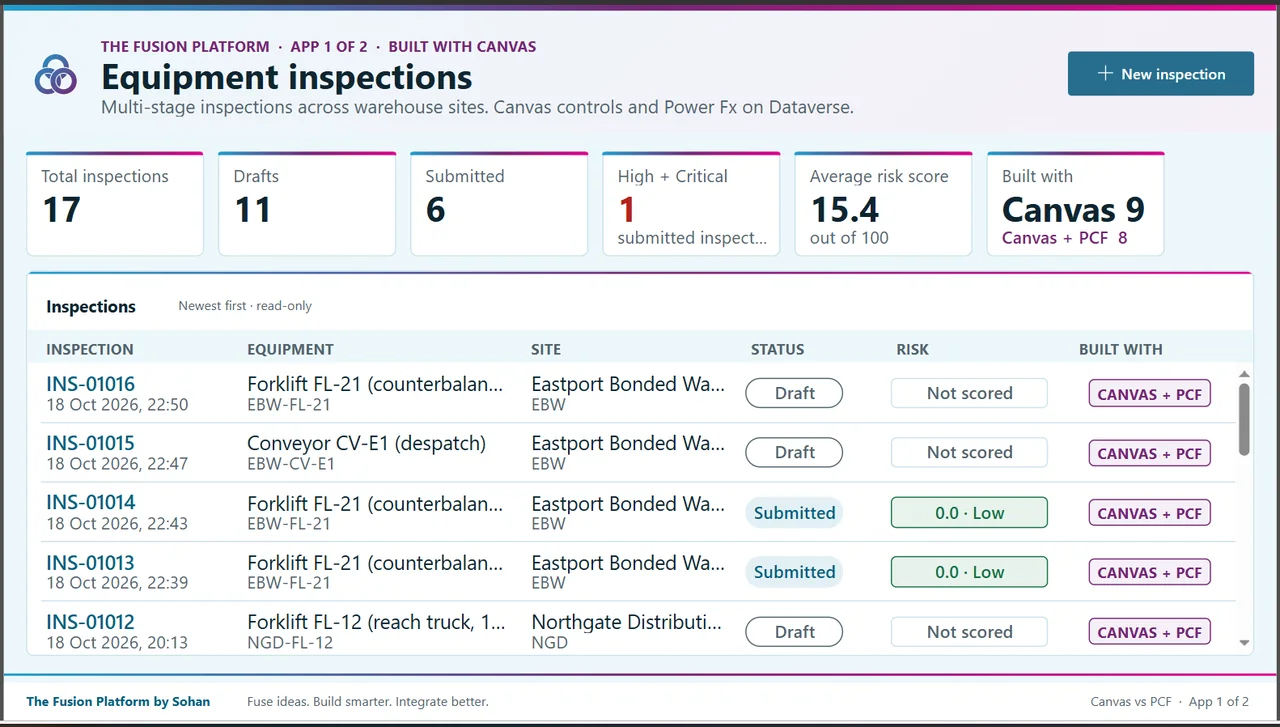
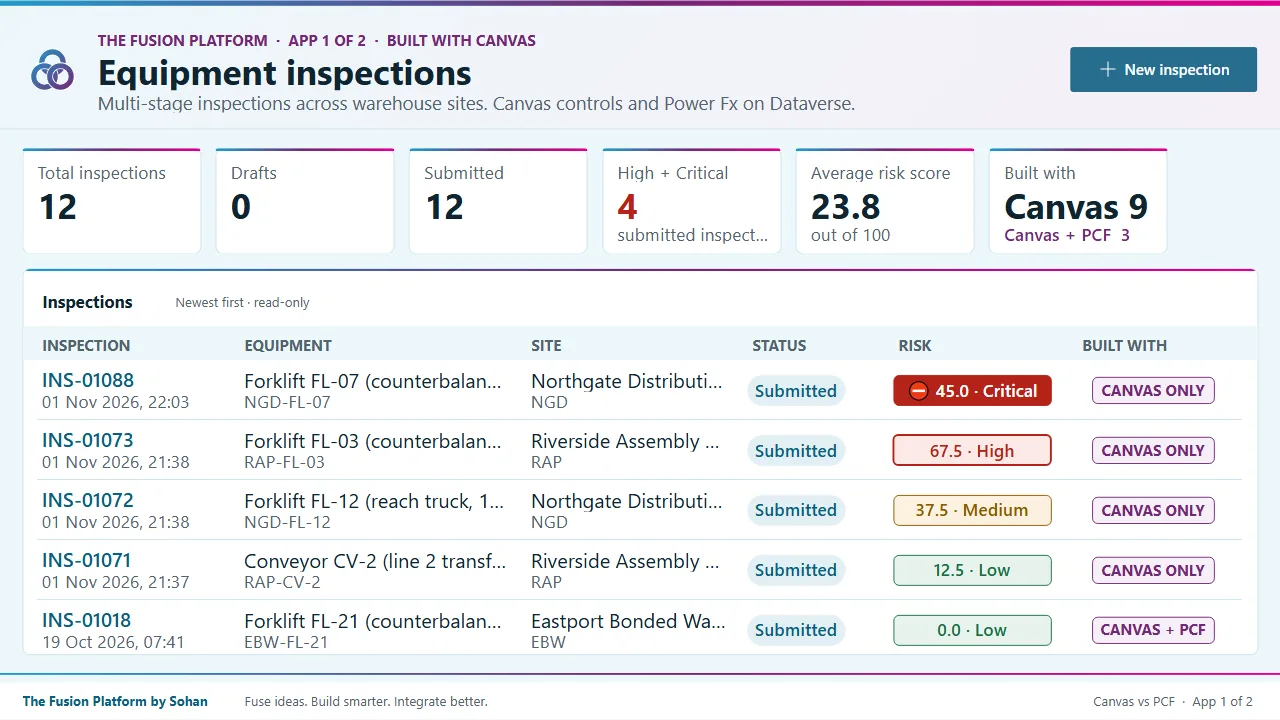
Projects: retake App 1's home screenshots on the tidied sample data
Same file names, so no links change. The alt text now matches the new banner. app2-01-home is
retaken with the App 2 work.

diff --git a/src/data/profile.ts b/src/data/profile.ts
@@ -304,7 +304,7 @@ export const projects: Project[] = [
       { src: shot("app1-03-critical-stop"), alt: "Checklist with the operator licence question answered No and the live risk panel showing 30 out of 100, Critical, critical stop.", caption: "One critical answer forces the Critical band, whatever the score." },
       { src: shot("app1-06-pen-markup"), alt: "Photo screen in annotate mode with freehand red strokes drawn over a photo of two spanners using the Pen input.", caption: "Canvas markup is the Pen input: freehand strokes only." },
       { src: shot("app1-07-pen-saved"), alt: "Saved photo with the freehand strokes and a note that strokes are stored as a separate image.", caption: "The strokes save as a separate image, apart from the photo." },
-      { src: shot("app1-05-submitted"), alt: "Home screen with a banner confirming the inspection was submitted with risk 30.0, Critical.", caption: "Submitted to Dataverse, and the counts update straight away." },
+      { src: shot("app1-05-submitted"), alt: "Home screen with a banner confirming the inspection was submitted with risk 45.0, Critical, and the counts updated.", caption: "Submitted to Dataverse, and the counts update straight away." },
     ],
     blog: { title: "When to Use Code Components in Canvas Apps", url: "https://thefusionplatform.wordpress.com/2026/10/19/when-to-use-code-components-in-canvas-apps/" },
     related: "canvas-pcf-rules-driven-inspections",
